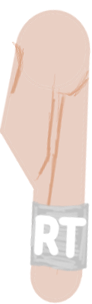
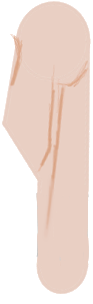
Remove wristbands to not be redundant

diff --git a/MountSputnik/core/assets/levelEditor.py b/MountSputnik/core/assets/levelEditor.py
@@ -304,6 +304,14 @@ class LinePlayground(FloatLayout):
                 "crumble": False
             }
 
+            # Obstacles: 
+           #  "originX"
+           # "originY"
+           # "width"
+           # "height"
+           # "frequency"
+           # "texture"
+
         s = str(level).replace("'", '"'); 
 
         new_file.write(s)
